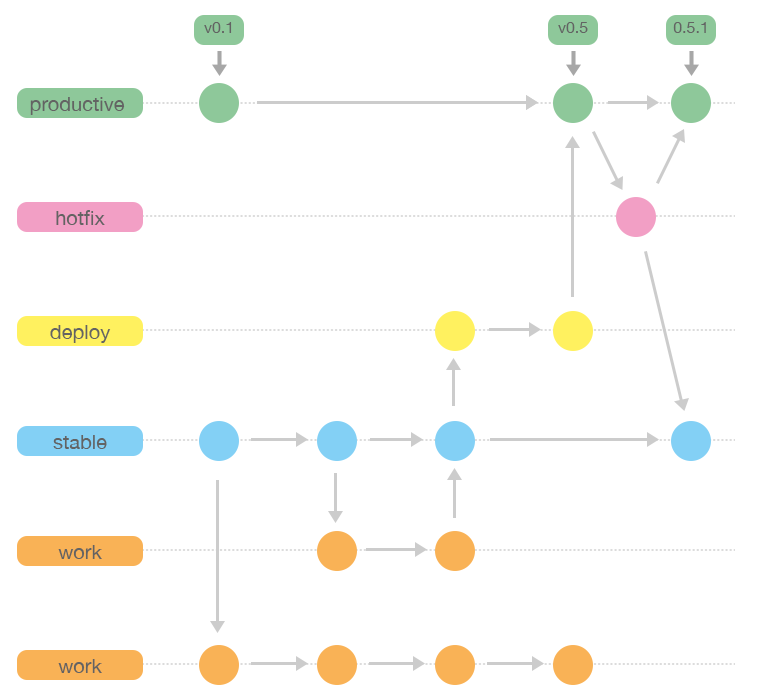
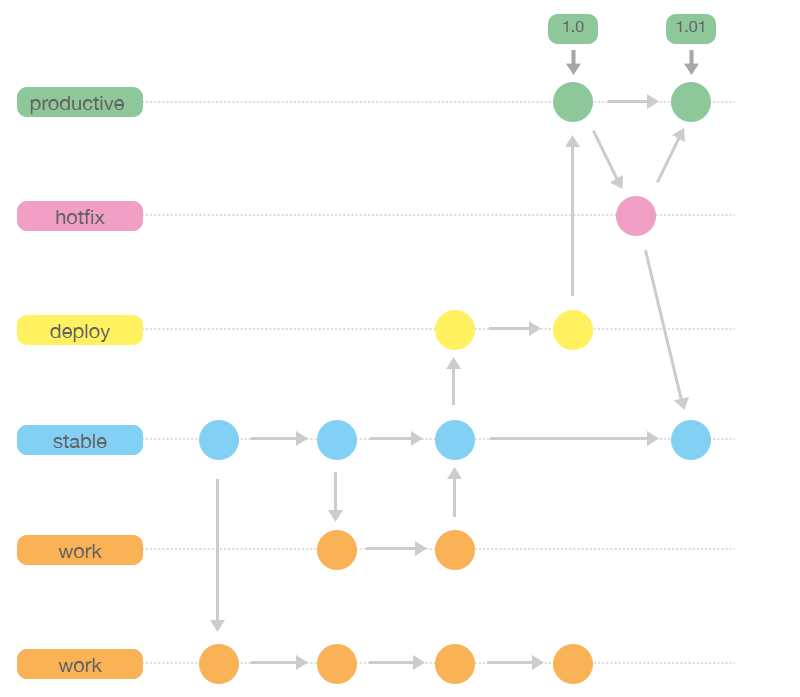
Fix errors in images, change position of jamit-flavored.png

diff --git a/_drafts/flavored-git-flow-german.md b/_drafts/flavored-git-flow-german.md
@@ -48,6 +48,9 @@ TODO: Screenshots mit Erklärungen zum Erstellen und Mergen eines feature Branch
 
 ## Was ist Jamit Labs Flavored Git-Flow?
 
+![Bild das alten und neuen Flavor zeigt](/public/images/flavored-git-flow/jamit-flavored.png)
+*Zum besseren Verständnis empfehlen wir eine Neubenennung der Git Flow Branches*
+
 Die Benennung der verschiedenen Branches als `master`, `develop`, `feature/`, `hotfix/`, `release/` und `support/` läuft Gefahr zu Missverständnissen und Verwechslungen zu führen. Beispielsweise wird der `master` Branch traditionell für den stabilen aktuellen Arbeits-Branch verwendet, sodass einige Programmierer mit Vorerfahrungen gewillt sind, direkt auf den `master` Branch zu commiten. Andere wiederum verwenden `release/` Branches, um verschiedene veröffentlichte Versionen der Software zu verwalten (wozu es in Git-Flow `support/` gibt), anstatt ihn ausschließlich für das Deployment zu verwenden.
 
 Aus diesem Grund erscheint es sinnvoll die Namen der Branches möglichst selbsterklärend und unmissverständlich zu ändern, wozu wir bei Jamit Labs folgende Umbenennungen vorgenommen haben. Es sei angemerkt, dass eine andere Benennung der Branches in Git-Flow explizit vorgesehen ist, was auch von SourceTree beim ersten Ausführen von Git-Flow pro Git-Projekt abgefragt wird, sodass die Umbenennung keinen großen Aufwand darstellt.
@@ -91,8 +94,7 @@ Wie bei `work/`und `deploy/` wurde wieder ein Verb als Ordnername gewählt.
 
 `support/` trifft ähnlich wie bei `hotfix/` den Sinn der Branches bei Verwaltung mehrere veröffentlichter Software-Versionen sehr gut, weshalb wir auch hier keine Umbenennung empfehlen. Allerdings ist die Unterstützung von mehreren Software-Versionen nicht immer auf die Versionsnummer bezogen (also den Support von Altversionen) sondern dabei kann es sich zum Beispiel auch um verschiedene Brandings einer App handeln. Da `support/` in solchen Fällen keinen Sinn macht, schlagen wir vor für jede Art von verwalteten Software-Versionen einen eigenen Namen zu verwenden, den man vorher intern mit seinem Team abklären sollte. Für unterschiedliche Brandings könnte etwa `branding/` gewählt werden.
 
-![Bild das alten und neuen Flavor zeigt](/public/images/flavored-git-flow/jamit-flavored.png)
-*Die Neubenennung der verschiedenen Branches nochmal im Überblick*
+
 
 ![Gesamtansicht mit allen Branches](/public/images/flavored-git-flow/overview.png)
 *Abschließend noch einmal eine Gesamtansicht aller Branches im Zusammenhang (bereits mit neuer Benennung).*
